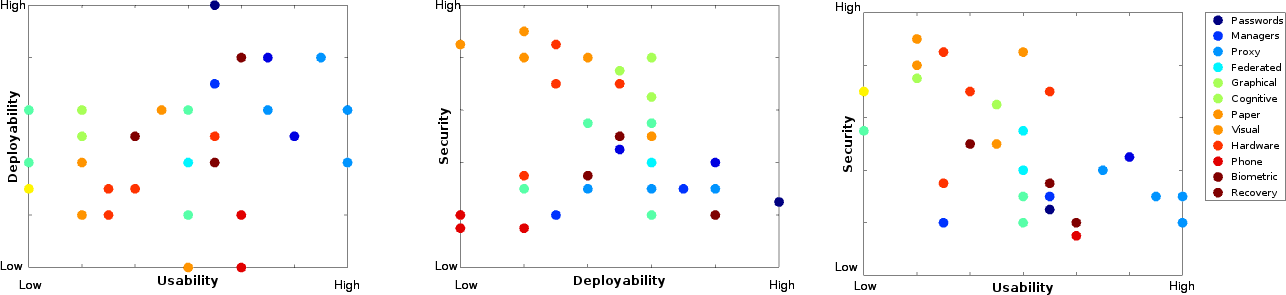
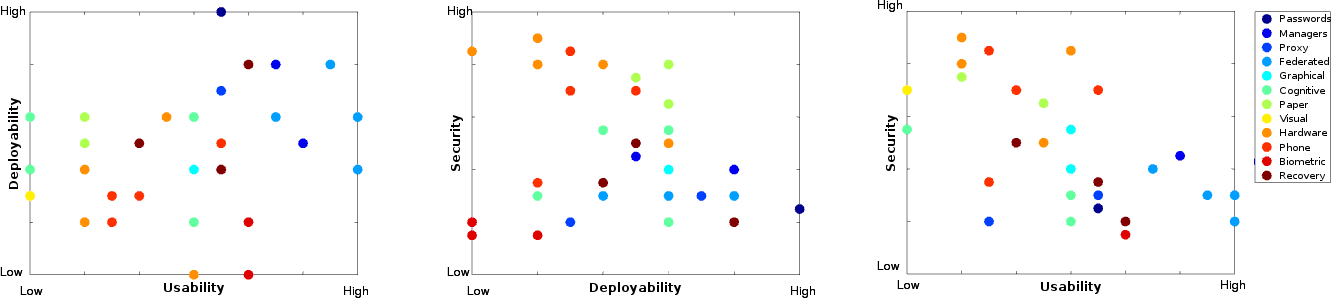
Fixed scatterplot legend (thanks Graeme)

diff --git a/figures/SummaryData.m b/figures/SummaryData.m
@@ -10,7 +10,8 @@ category = data(:,1);
 
 #h = figure
 subplot(2,2,4);
-scatter3(usability, deployability, security, 10, category, "filled");
+h = scatter3(usability, deployability, security, 10, category, "filled");
+colormap('jet');
 xlabel ("Usability", "fontsize", fontsize, "fontweight", "bold");
 axis("ij");
 ylabel ("Deployability", "fontsize", fontsize, "fontweight", "bold");
@@ -37,8 +38,9 @@ axis("nolabel");
 
 subplot(2,2,4);
 [~, I] = unique(category); %
-p = findobj(gca,'Type','Patch');
-I = flipud(I);
+p = findobj(h,'Type','Patch');
+#I = flipud(I);
+I = 37 - I;
 legend(p(I),name, "location", "northeast", "orientation", "vertical");
 
 annotation("textbox", [.12 .545 .3 .3], "String", "Low", "linestyle", "none", "fontsize", fontsizeaxis);

diff --git a/main.tex b/main.tex
@@ -280,7 +280,7 @@ Interesting points about the approach:
 \item Explicitly haven't provided totals.
 \item Properties cold be weighted depending on scenario.
 \item Considered having `fatal' and `power-user' ratings.
-\item Some characteristics mutually incompatible.
+\item Maximum developer competence, minimum user competence.
 \item Prefer `broadly right' to `precisely wrong'.
 \item Aim to avoid evaluator bias.
 \end{enumerate}
